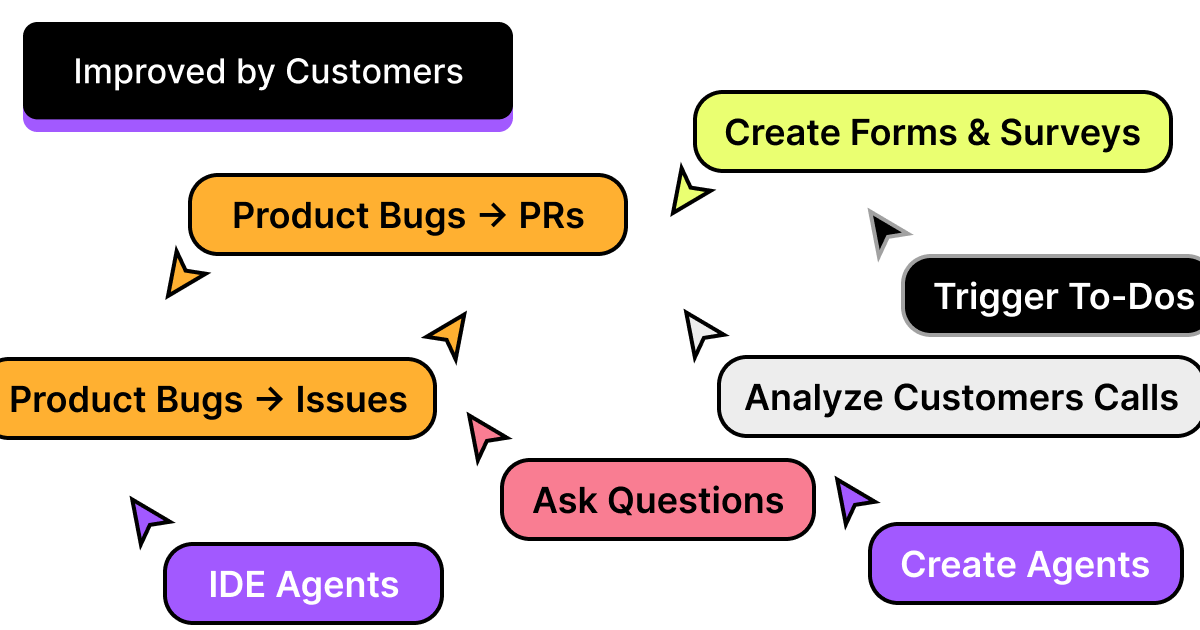
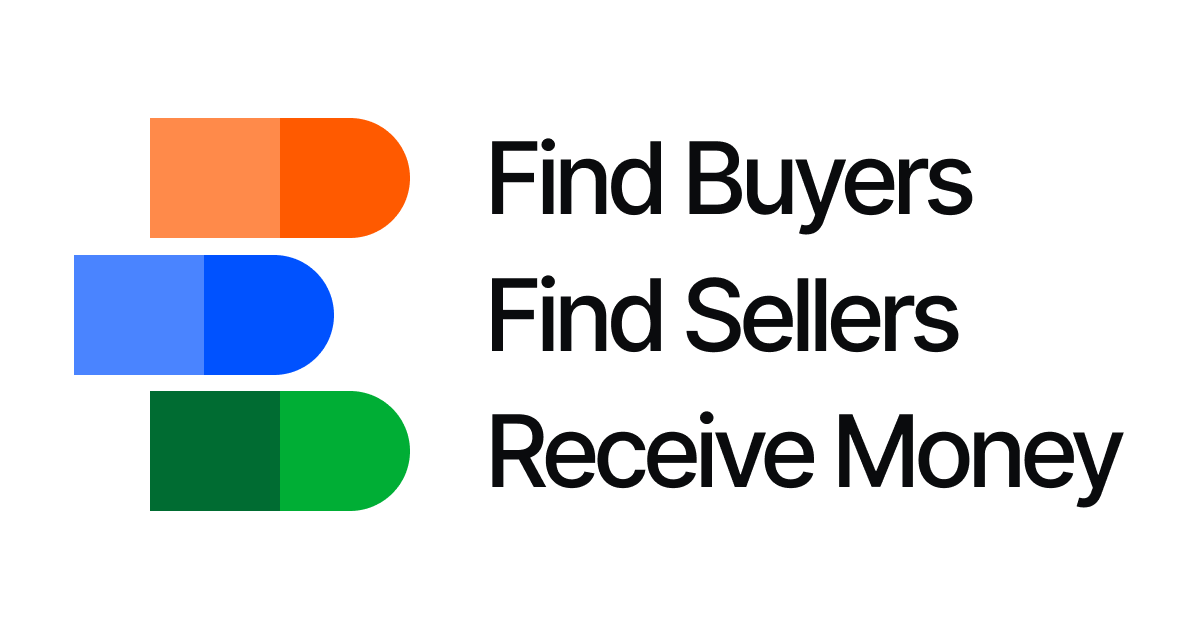
add og

diff --git a/src/app/(marketing)/page.tsx b/src/app/(marketing)/page.tsx
@@ -15,6 +15,7 @@ import {
   ProductPrBottomLeft,
   PRIssues,
 } from "@/components/svgs";
+import { CurrencyCircleDollarIcon, StorefrontIcon, ListBulletsIcon, TagIcon } from "@phosphor-icons/react";
 import { AnimatedHeroGrid } from "@/components/hero-grid/HeroGrid";
 import { TwoColLayout, FourCardGrid, Section } from "@/components/layouts";
 
@@ -78,51 +79,26 @@ export default function Home() {
               {
                 title: "Automated Settlements",
                 description: "Sell products. Receive settlements automatically. No manual reconciliation.",
-                icon: (
-                  <svg width="24" height="24" viewBox="0 0 24 24" fill="none" xmlns="http://www.w3.org/2000/svg">
-                    <path d="M12 2C6.48 2 2 6.48 2 12s4.48 10 10 10 10-4.48 10-10S17.52 2 12 2zm1 15h-2v-2h2v2zm0-4h-2V7h2v6z" fill="currentColor" opacity="0.3"/>
-                    <path d="M11 7h2v6h-2zm0 8h2v2h-2z" fill="currentColor"/>
-                    <path d="M12 2v2m0 16v2M2 12h2m16 0h2" stroke="currentColor" strokeWidth="1.5" strokeLinecap="round"/>
-                    <circle cx="12" cy="12" r="9" stroke="currentColor" strokeWidth="1.5"/>
-                    <path d="M8 12l2.5 2.5L16 9" stroke="currentColor" strokeWidth="1.5" strokeLinecap="round" strokeLinejoin="round"/>
-                  </svg>
-                ),
+                icon: <CurrencyCircleDollarIcon size={32} color="#0433ff" weight="duotone" />,
                 button: { label: "Start Selling", href: "https://app.graybulk.com" },
               },
               {
                 title: "Supplier Storefronts",
                 description: "Build your supplier presence online. Your products, catalog, and company — in one place.",
-                icon: (
-                  <svg width="24" height="24" viewBox="0 0 24 24" fill="none" xmlns="http://www.w3.org/2000/svg">
-                    <path d="M3 9l9-7 9 7v11a2 2 0 01-2 2H5a2 2 0 01-2-2z" stroke="currentColor" strokeWidth="1.5" strokeLinecap="round" strokeLinejoin="round"/>
-                    <path d="M9 22V12h6v10" stroke="currentColor" strokeWidth="1.5" strokeLinecap="round" strokeLinejoin="round"/>
-                  </svg>
-                ),
+                icon: <StorefrontIcon size={32} color="#0433ff" weight="duotone" />,
                 button: { label: "Create Profile", href: "https://app.graybulk.com" },
               },
               {
                 title: "Structured Catalogs",
                 description: "Organize your entire product range with structured listings built for B2B buyers.",
-                icon: (
-                  <svg width="24" height="24" viewBox="0 0 24 24" fill="none" xmlns="http://www.w3.org/2000/svg">
-                    <path d="M4 6h16M4 10h16M4 14h10M4 18h6" stroke="currentColor" strokeWidth="1.5" strokeLinecap="round"/>
-                    <rect x="14" y="13" width="6" height="6" rx="1" stroke="currentColor" strokeWidth="1.5"/>
-                  </svg>
-                ),
+                icon: <ListBulletsIcon size={32} color="#0433ff" weight="duotone" />,
                 button: { label: "List Products", href: "https://app.graybulk.com" },
               },
               {
                 title: "Low Transaction Fees",
                 description: "0.4% on UPI. Flat ₹230 on net banking. Predictable costs at any volume.",
-                icon: (
-                  <svg width="24" height="24" viewBox="0 0 24 24" fill="none" xmlns="http://www.w3.org/2000/svg">
-                    <path d="M12 2v2m0 16v2M6 12H4m16 0h-2" stroke="currentColor" strokeWidth="1.5" strokeLinecap="round"/>
-                    <circle cx="12" cy="12" r="8" stroke="currentColor" strokeWidth="1.5"/>
-                    <path d="M9 9h4.5a1.5 1.5 0 010 3H10a1.5 1.5 0 000 3H15" stroke="currentColor" strokeWidth="1.5" strokeLinecap="round"/>
-                    <path d="M12 7.5V9m0 6v1.5" stroke="currentColor" strokeWidth="1.5" strokeLinecap="round"/>
-                  </svg>
-                ),
-                button: { label: "See Pricing", href: "https://app.graybulk.com" },
+                icon: <TagIcon size={32} color="#0433ff" weight="duotone" />,
+                button: { label: "See Pricing", href: "/pricing" },
               },
             ]}
           />

diff --git a/src/components/layouts/index.tsx b/src/components/layouts/index.tsx
@@ -61,11 +61,11 @@ export function FourCardGrid({
 }) {
   return (
     <div className={cn("flex justify-center", className)}>
-      <div className="grid grid-cols-2 gap-4 w-full max-w-4xl">
+      <div className="grid grid-cols-2 gap-4 w-full max-w-5xl">
         {cards.slice(0, 4).map((card, i) => (
           <div
             key={i}
-            className="border border-neutral-200 bg-card rounded-xl p-6 flex flex-col gap-3"
+            className="bg-card rounded-4xl p-8 flex flex-col gap-5"
           >
             <div className="text-primary">
               {card.icon ?? <ArrowRight className="w-6 h-6" />}
@@ -73,13 +73,13 @@ export function FourCardGrid({
             <h3 className="text-lg font-medium text-primary">
               {card.title}
             </h3>
-            <p className="text-base text-neutral-500 leading-relaxed flex-1">
+            <p className="text-base text-subdesc leading-relaxed flex-1">
               {card.description}
             </p>
             {card.button && (
               <div className="mt-1">
                 {card.button.href ? (
-                  <a href={card.button.href} target="_blank">
+                  <a href={card.button.href}>
                     <Button variant="black" size="sm">{card.button.label}</Button>
                   </a>
                 ) : (

diff --git a/src/components/ui/button.tsx b/src/components/ui/button.tsx
@@ -13,9 +13,9 @@ const buttonVariants = cva(
           "bg-primary text-primary-foreground shadow-xs cursor-pointer rounded-lg",
         primary: "bg-blue-600 hover:bg-blue-600/95 active:scale-95  font-semibold text-primary-foreground cursor-pointer rounded-full",
         secondary:
-          "bg-graybutton text-primary active:scale-95 font-semibold cursor-pointer duration-300 transition rounded-full",
+          "bg-graybutton hover:bg-neutral-200 text-primary active:scale-95 font-semibold cursor-pointer duration-300 transition rounded-full",
         black:
-          "bg-primary active:bg-primary/85 text-white active:scale-95 font-semibold cursor-pointer duration-150 transition rounded-full",
+          "bg-primary hover:bg-primary/85 active:bg-primary/75 text-white active:scale-95 font-semibold cursor-pointer duration-150 transition rounded-full",
         link: "text-primary underline-offset-4 hover:underline",
       },
       size: {

diff --git a/src/styles/globals.css b/src/styles/globals.css
@@ -37,6 +37,7 @@
   --color-card-foreground: var(--card-foreground);
   --color-card: var(--card);
   --color-graybutton: var(--graybutton);
+  --color-subdesc: var(--subdesc);
 
   --font-sans: var(--font-sans);
   --font-mono: var(--font-mono);
@@ -53,6 +54,7 @@
   --foreground: oklch(0.145 0 0);
   --card: #F7F8F9;
   --graybutton: #EEF0F3;
+  --subdesc: #5A616F;
   --card-foreground: oklch(0.145 0 0);
   --popover: oklch(1 0 0);
   --popover-foreground: oklch(0.145 0 0);